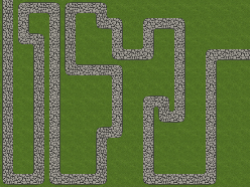
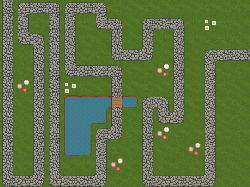
updated map select pics and map 2 name

Changed region(s): [[0.0, 0.0, 1.0, 1.0], [0.812, 0.107, 0.868, 0.1604]]

diff --git a/src/main/Map_select.java b/src/main/Map_select.java
@@ -71,7 +71,7 @@ public class Map_select {
 		map_images[2] = new Texture("maps/level_3.png", offset_x + ((map_images[0].getWidth() + 20) * 2), offset_y, 1f,1f);
 		
 		map_names[0] = "Grassy Greens";
-		map_names[1] = "Pipe down";
+		map_names[1] = "Sand Dunes";
 		map_names[2] = "Tricky track";		
 	}
 	
